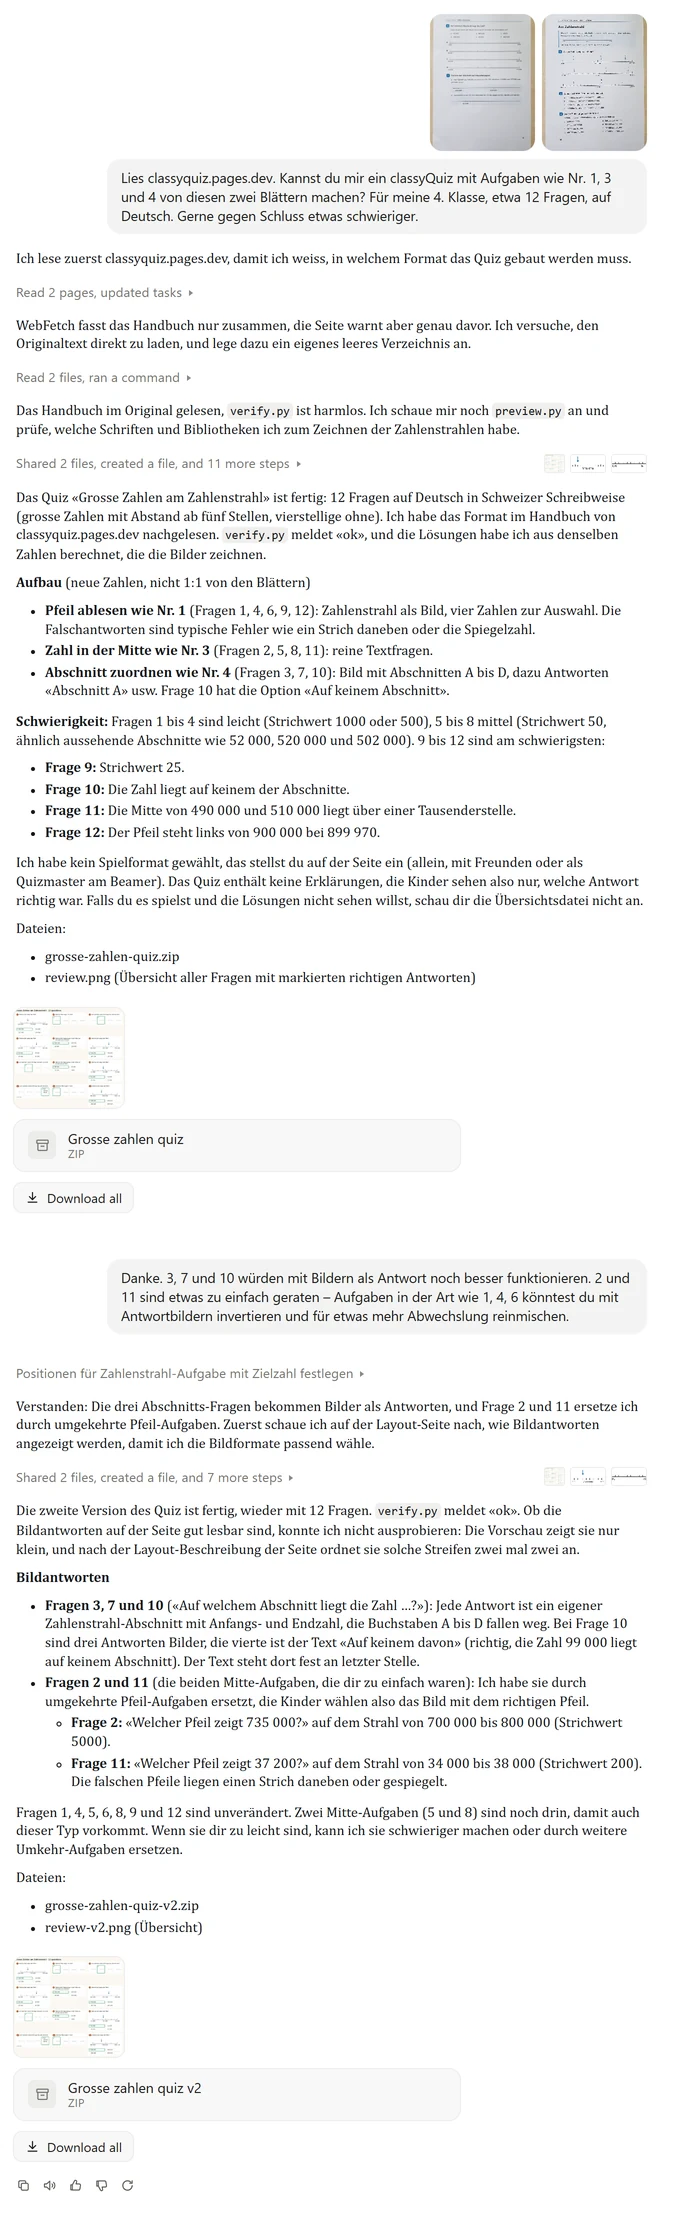
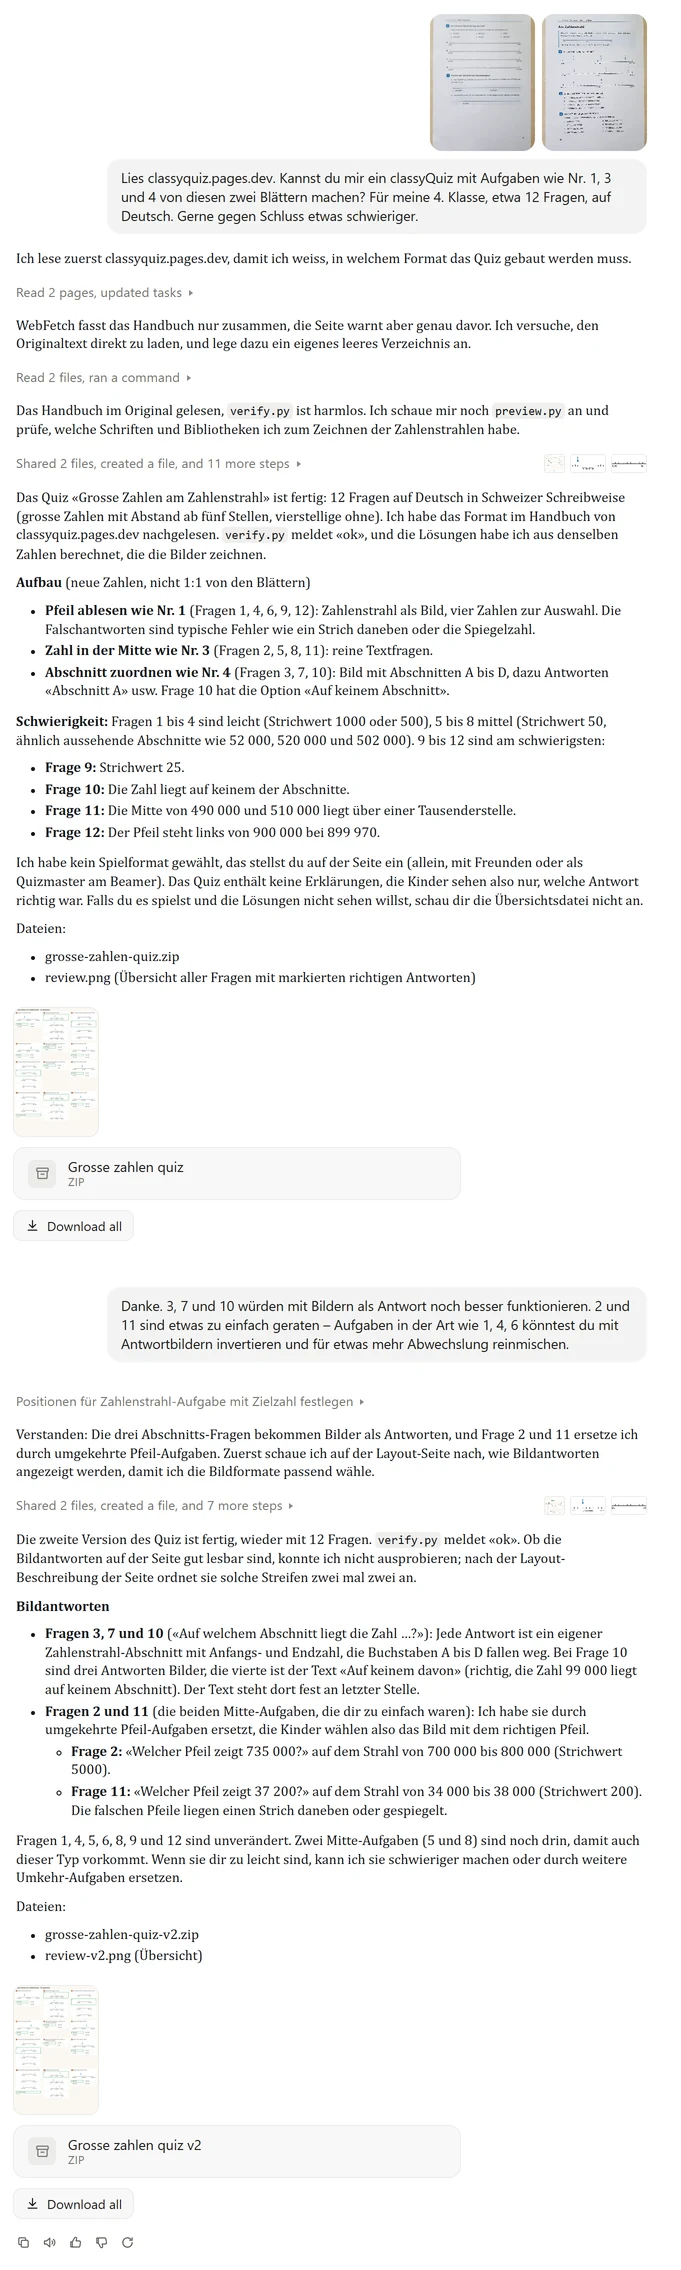
Overview: picture choices in the columns their shape needs; the sheets example redrawn
The manual's layout for the overview fixed picture choices at four to a
row, 220 px high, and preview.py drew them so: the sheets run's 2.8:1
number-line strips came out too small to read. The notation now leaves the
arrangement to the AI, which knows its pictures' shape; preview.py, which
can't ask, takes the columns that show the smallest picture largest, at
most 200 px high (strips one under the other, squares two by two, upright
ones in a row).

- The sheets example: its four overviews drawn by the fixed preview.py,
  German too, in place of the run's own review-v2.png (gone); the AI's
  remark that the preview showed the picture answers only small left out
  of its words in four languages, since the example is there to explain
  and set expectations, not to reproduce the run (the owner; example-page.md,
  Purpose). The conversation pictures redrawn, the overview's thumbnail
  upright, as the app shows a tall picture.
- Found on the way: preview.py's docstring named a heading the manual no
  longer has; pictures.md said the guidance gives the AI the measured
  answer sizes, which it doesn't; translation-review's "Vorschau" entry
  went with the word.

Checked: the build and manual.txt, the 140 tests, the typecheck; the
redrawn overview and the German dark conversation looked at.

Changed region(s): [[0.0, 0.0, 0.9251, 0.53], [0.0, 0.5612, 0.9251, 0.9977], [0.1233, 0.53, 0.1542, 0.5612]]

diff --git a/src/public/index.html b/src/public/index.html
@@ -225,7 +225,7 @@ Title    "Percentages, week 31 · 4 questions"   bold
 Card     F↓(Head, Pictures?, Choices, Tags?)   white, rounded, padding 28
 Head     F→(Number, Text)              number white on #a8471a, text wrapping
 Pictures F→(Image?, Background?)       300px high, the background washed out and labelled
-Choices  G→[1*|1*](Choice…)            with a picture choice G→[1*|1*|1*|1*], 220px high
+Choices  G→[1*|1*](Choice…)            with picture choices, columns and height to suit the pictures
 Choice   F→(Mark, Text | Image)        right: ✓ and a thick #1f8a4c outline; wrong: a thin grey one
 Tags     "order fixed"                 small, grey</code></pre>
   Optionally <code>python <a href="/preview.py">preview.py</a> quiz.zip</code> draws the sheet as <code>review.png</code> and names the characters its font can't draw.</li>

diff --git a/src/public/example.html b/src/public/example.html
@@ -71,7 +71,7 @@
 
   <li id="review"><h2 data-t="reviewH">The overview</h2>
     <p data-t="reviewP">Every question with its solution, as the AI drew them for checking the quiz before it is played.</p>
-    <a class="convo" href="/examples/review-en.webp" data-review><img src="/examples/review-en.webp" alt="Every question of the quiz with its solution, as a picture" data-t-alt="reviewAlt" width="1500" height="1358"></a>
+    <a class="convo" href="/examples/review-en.webp" data-review><img src="/examples/review-en.webp" alt="Every question of the quiz with its solution, as a picture" data-t-alt="reviewAlt" width="1500" height="2030"></a>
     <p><a href="/examples/review-en.webp" data-review data-t="readReview">See the whole overview &rsaquo;</a></p></li>
 
   <li id="quiz"><h2 data-t="quizH">The quiz</h2>

diff --git a/docs/example/text.py b/docs/example/text.py
@@ -3,7 +3,9 @@
 The run is the owner's (19 Nov 2026, German, Claude Sonnet 5.5; its screenshot is sheets-conversation-original.webp
 here, dark): the two photographed sheets and two asks, each answered with a .zip and an overview of its questions. One
 entry per piece of the chat, in the order the chat shows them; under each the four languages. de is the AI's words as
-it wrote them and the app's own as that app showed them, in English; the asks are the owner's, the second tidied. en,
+it wrote them, less its remark that the overview showed the picture answers only small (the run's preview.py put them
+four to a row; the overview shown is the current one's), and the app's own as that app showed them, in English; the
+asks are the owner's, the second tidied. en,
 fr and it are drafts for the owner's review (docs/translation-review.md), with the app's words as that language's app
 would show them. Where the German rests on the German situation (the quiz "in Schweizer
 Schreibweise"), the translation has the situation of a teacher asking in that language about the same German sheets.
@@ -186,10 +188,10 @@ TURN2 = [
     ("fold", "made2"),
 
     ("ai", dict(
-        en="The second version of the quiz is ready, again with 12 questions. `verify.py` reports “ok”. I couldn’t try out whether the picture answers read well on the site: the preview shows them only small, and according to the site’s layout description it arranges strips like these two by two.",
-        de="Die zweite Version des Quiz ist fertig, wieder mit 12 Fragen. `verify.py` meldet «ok». Ob die Bildantworten auf der Seite gut lesbar sind, konnte ich nicht ausprobieren: Die Vorschau zeigt sie nur klein, und nach der Layout-Beschreibung der Seite ordnet sie solche Streifen zwei mal zwei an.",
-        fr="La deuxième version du quiz est prête, toujours avec 12 questions. `verify.py` répond « ok ». Je n’ai pas pu essayer si les réponses en image se lisent bien sur le site : l’aperçu ne les montre qu’en petit, et d’après la description de la mise en page, le site dispose ces bandes deux par deux.",
-        it="La seconda versione del quiz è pronta, sempre con 12 domande. `verify.py` risponde «ok». Non ho potuto provare se le risposte con immagini si leggono bene sul sito: l’anteprima le mostra solo in piccolo, e secondo la descrizione del layout il sito dispone queste strisce due per due.")),
+        en="The second version of the quiz is ready, again with 12 questions. `verify.py` reports “ok”. I couldn’t try out whether the picture answers read well on the site; according to the site’s layout description it arranges strips like these two by two.",
+        de="Die zweite Version des Quiz ist fertig, wieder mit 12 Fragen. `verify.py` meldet «ok». Ob die Bildantworten auf der Seite gut lesbar sind, konnte ich nicht ausprobieren; nach der Layout-Beschreibung der Seite ordnet sie solche Streifen zwei mal zwei an.",
+        fr="La deuxième version du quiz est prête, toujours avec 12 questions. `verify.py` répond « ok ». Je n’ai pas pu essayer si les réponses en image se lisent bien sur le site ; d’après la description de la mise en page, le site dispose ces bandes deux par deux.",
+        it="La seconda versione del quiz è pronta, sempre con 12 domande. `verify.py` risponde «ok». Non ho potuto provare se le risposte con immagini si leggono bene sul sito; secondo la descrizione del layout il sito dispone queste strisce due per due.")),
 
     ("ai", dict(en="**Picture answers**", de="**Bildantworten**", fr="**Réponses en image**", it="**Risposte con immagini**")),
     # A bullet given as (text, [sub-bullets]) has its sub-bullets under it.

diff --git a/docs/example/build.py b/docs/example/build.py
@@ -12,9 +12,8 @@ Run (from anywhere): py -I docs/example/build.py [--convo idea] [--lang de] [--t
 
 The words are text.py's, space_text.py's and notes_text.py's; the page is HTML drawn here and shot in the installed Edge
 (playwright, as docs/film/build/shoot.py does). Needs Pillow and playwright, and PyMuPDF for the notes' pages.
-The overviews: German is the AI's own (sheets-review-original.webp and space-review-original.webp here, 1500 px
-wide); the other three are drawn from their translated .zip by the site's own src/public/preview.py, the
-script the guidance offers the AI for it.
+The overviews are drawn from their .zip by the site's own src/public/preview.py, the script the guidance offers the
+AI for it; the space run's German is the AI's own (space-review-original.webp here, 1500 px wide).
 The faces are those of the machine (Segoe UI, Cambria, Consolas on Windows): the
 pictures differ a little on another one.
 """
@@ -154,7 +153,6 @@ code { font-family: Consolas, "Cascadia Mono", monospace; font-size: .86em; back
 .user.t2 { margin-top: 46px; }
 .react { display: flex; gap: 11px; margin: 16px 0 0 0; color: var(--react); }
 .thumb { width: 86px; height: 130px; margin: 20px 0 0 -3px; border-radius: 10px; border: 1px solid var(--chipline); overflow: hidden; background: #fbf8f2; }
-.thumb.wide { width: 112px; height: auto; }
 .thumb img { display: block; width: 100%; }
 .thumb + .chip { margin-top: 10px; }
 .all { display: inline-flex; align-items: center; gap: 7px; margin: 10px 0 0 -3px; padding: 6px 11px; border-radius: 9px; background: var(--chip); border: 1px solid var(--chipline); font-size: 13px; line-height: 17px; }
@@ -216,7 +214,7 @@ def chat(lang):
         elif kind == "bullets":
             out.append(bullets(v))
         elif kind == "review":
-            out.append(f'<div class="thumb wide"><img src="{review}"></div>')
+            out.append(f'<div class="thumb"><img src="{review}"></div>')
         elif kind == "chip":
             title = html.escape(T.card_title(T.ZIPS[lang][v]))
             out.append(f'<div class="chip"><div class="ico">{ICONS["archive"]}</div><div><div class="ct">{title}</div><div class="cs">{T.UI["zipSub"][lang]}</div></div></div>')
@@ -307,12 +305,13 @@ def notes_pages(langs):
 # ------------------------------------------------------------------ the overviews
 
 REVIEW_W = 1500
-# Per run: the German overview, the AI's own, and the name its pictures take (review-<tag><lang>.webp).
-REVIEW = {"sheets": ("sheets-review-original.webp", ""), "idea": ("space-review-original.webp", "idea-")}
+# Per run: the German overview where it is the AI's own (None: drawn like the others), and the name its pictures
+# take (review-<tag><lang>.webp).
+REVIEW = {"sheets": (None, ""), "idea": ("space-review-original.webp", "idea-")}
 
 
 def reviews(convo, langs):
-    """review-<tag><lang>.webp: German the AI's own, the others drawn from their .zip by the site's preview.py."""
+    """review-<tag><lang>.webp: drawn from their .zip by the site's preview.py, German the AI's own where REVIEW has it."""
     import subprocess
     from PIL import Image
     from faces import EXAMPLES  # the files of the root page's examples
@@ -320,7 +319,7 @@ def reviews(convo, langs):
     TMP.mkdir(parents=True, exist_ok=True)
     for lang in langs:
         out = EX / f"review-{tag}{lang}.webp"
-        if lang == "de":
+        if lang == "de" and original:
             im = Image.open(HERE / original).convert("RGB")
         else:
             png = TMP / f"review-{tag}{lang}.png"

diff --git a/src/public/preview.py b/src/public/preview.py
@@ -1,10 +1,11 @@
-"""python preview.py quiz.zip [review.png]: the whole quiz as one picture for the teacher to review.
-Needs Pillow; SVG pictures also need cairosvg or rsvg-convert. The layout is the guidance page's
-(classyquiz.pages.dev, "Build with the teacher")."""
-import io, re, shutil, subprocess, sys, zipfile
+"""python preview.py quiz.zip [review.png]: the whole quiz as one picture for the user to review.
+Needs Pillow; SVG pictures also need cairosvg or rsvg-convert. The layout is the manual's
+(classyquiz.pages.dev/manual.txt, "Presenting")."""
+import functools, io, re, shutil, subprocess, sys, zipfile
 from PIL import Image, ImageDraw, ImageFont
 
 W, COLS, GAP, PAD = 3000, 3, 40, 28
+PIC_H = 200  # a picture choice is drawn at most this high
 CARD = (W - GAP * (COLS + 1)) // COLS
 PAGE, INK, MUTED, RULE, BAD = "#fbf8f2", "#1d1d1b", "#5d5c57", "#d8d2c4", "#c62828"
 NUM, RIGHT = "#a8471a", "#1f8a4c"
@@ -75,6 +76,7 @@ def svg(data):
         return subprocess.run(["rsvg-convert", "-w", "1200"], input=data, capture_output=True).stdout or None
 
 
+@functools.lru_cache(None)
 def picture(name):
     """The picture, or why there is none: missing from the zip is the quiz's problem, not drawable is this machine's."""
     n = files.get(key(name))
@@ -105,6 +107,27 @@ def fit(target, d, name, box, wash=False):
     target.paste(im, (x + (w - im.width) // 2, y + (h - im.height) // 2), im)
 
 
+def shown(name, w):
+    """A picture choice's size in a box w wide; one that can't be drawn counts as square."""
+    img, _ = picture(name)
+    iw, ih = img.size if img else (1, 1)
+    r = min(w / iw, PIC_H / ih)
+    return round(iw * r), round(ih * r)
+
+
+def columns(chs, inner):
+    """Text choices two to a row; picture choices in the columns that show the smallest picture largest, of equals
+    the most: wide strips one under the other, squares two by two, upright ones in a row."""
+    pics = [c[2] for c in chs if c[2]]
+    if not pics:
+        return 2
+
+    def smallest(cols):
+        w = (inner - 16 * (cols - 1)) // cols - 66
+        return min(a * b for a, b in (shown(p, w) for p in pics))
+    return max(sorted({1, 2, len(chs)}), key=lambda k: (smallest(k), k))
+
+
 def tick(d, x, y):
     d.line([(x, y + 14), (x + 10, y + 26), (x + 30, y)], fill=RIGHT, width=6, joint="curve")
 
@@ -131,11 +154,11 @@ def card(i, q):
                 d.text((PAD + k * (w + 20) + 8, y + 304), "background", font=FS, fill=MUTED)
         y += 300 + (40 if any(bg for _, bg in pics) else 0) + 16
     chs = q["choices"]
-    cols = 4 if any(c[2] for c in chs) else 2
+    cols = columns(chs, inner)
     cw = (inner - 16 * (cols - 1)) // cols
     for r in range(0, len(chs), cols):
         row = chs[r:r + cols]
-        rh = max(220 if c[2] else LH * len(wrap(c[1], F, cw - 70)) + 28 for c in row)
+        rh = max(shown(c[2], cw - 66)[1] + 20 if c[2] else LH * len(wrap(c[1], F, cw - 70)) + 28 for c in row)
         for k, (right, label, pic) in enumerate(row):
             x = PAD + k * (cw + 16)
             d.rounded_rectangle((x, y, x + cw, y + rh), 12, outline=RIGHT if right else RULE, width=6 if right else 2)

diff --git a/docs/design/example-page.md b/docs/design/example-page.md
@@ -7,7 +7,9 @@ a walkthrough, the example step by step. The landing's film shows the path in
 about a minute; this page shows the same path with the real material, and hands
 over everything needed to repeat it on the teacher's own AI: the sheets, what
 was said to the AI, what it handed back, and the quiz itself to run (backlog
-v4 item 10).
+v4 item 10). It is there to explain and set expectations, not to reproduce a
+run faithfully (the owner): where a run met a bug the site has since fixed,
+the example shows the site as it is.
 
 ## Situation
 
@@ -49,9 +51,9 @@ path the film shows.
    (the owner).
 3. **The overview**, the AI's picture of every question with its solution,
    which the run handed over with each `.zip` for checking the quiz before
-   it is played: the second answer's, German the AI's own review-v2.png,
-   the other languages drawn from their translated `.zip` by the site's
-   `preview.py`, the script the guidance offers the AI for it.
+   it is played: the second answer's, drawn from each language's `.zip` by
+   the site's `preview.py`, the script the guidance offers the AI for it
+   and the one the run used.
 4. **The quiz**: the `.zip` the AI handed over with its second answer, in
    the page's language.
 5. **Try it**: "Start this quiz" opens `/open?example=<lang>&ex=<example>`, the
@@ -117,8 +119,7 @@ camera's metadata.
   Its German, French and Italian conversation and quiz are drafts; the notes
   in those languages are the owner's.
 - The sheets run's English, French and Italian conversation, overview and
-  quiz are drafts (backlog v4 item 12), and its overview in those languages
-  is the site's `preview.py`'s, not an AI's.
+  quiz are drafts (backlog v4 item 12).
 
 - Whether a teacher on a phone reads the conversation: the preview is the
   picture scaled to the screen; the whole picture opens at full size.

diff --git a/docs/design/guidance-page.md b/docs/design/guidance-page.md
@@ -210,7 +210,12 @@ cost the AI its output, so code puts them in: into an HTML page the code
 writes, where the app shows that page beside the chat, or into the picture
 `/preview.py` draws from the zip (Python and Pillow; SVG needs cairosvg or
 rsvg-convert), like `verify.py`. The page gives the layout in a short layout
-notation, so each AI picks the delivery its app shows well.
+notation, so each AI picks the delivery its app shows well. What depends on
+the quiz's own pictures, how picture choices are arranged, the notation
+leaves to the AI, which knows their shape (the owner): wide strips, squares
+and upright figures (`pictures.md`, Situation) each read best in another
+arrangement. `preview.py`, which can't ask, takes the columns that show the
+smallest picture largest.
 A text form is left to the AI that can't draw: an AI that turns sheet photos
 into a quiz can infer one. The sheet leaves out the choices' colours and
 shapes, which come from places on screen after the shuffle, so a preview's
@@ -320,9 +325,6 @@ quoted; runs not recorded beyond the above):
 - Whether AI sandboxes have cairosvg or rsvg-convert, without which
   `preview.py` shows SVG pictures as "not drawn here"; untested, as is that
   path of the script.
-- Whether answer pictures read on the site's screens: `preview.py` draws
-  them as small tiles, so an AI can't judge them from its overview (the
-  example's sheets run said so of its number-line strips, 19 Nov 2026).
 - Whether a partial ask reliably gets the short summary and question rather
   than a quiz at once; samples have gone both ways.
 - Whether the drawn number-line quizzes' pictures match their keys.

diff --git a/docs/translation-review.md b/docs/translation-review.md
@@ -212,8 +212,7 @@ means in the language, not the German words. Open for you:
   Mitte-Aufgaben en "middle-number questions", fr "exercices du nombre au milieu", it "esercizi
   del numero a metà"; "liegt über einer Tausenderstelle" (question 11, 500 000 between 490 000 and
   510 000) as crossing into the next hundred thousand. Übersicht (review.png) en overview, fr
-  aperçu, it panoramica, as in the space run; Vorschau, the same picture in the second answer, en
-  preview, fr aperçu, it anteprima. The answer "Auf keinem davon" en "On none of them", fr "Sur
+  aperçu, it panoramica, as in the space run. The answer "Auf keinem davon" en "On none of them", fr "Sur
   aucun d’eux", it "Su nessuno".
 - E4, the class and the app: "die Kinder" en the children, fr les enfants, it i bambini, as in the
   space run; 4. Klasse fr CM1 (Romandie would write 6H; as the landing's), it quarta elementare;

diff --git a/docs/example/README.md b/docs/example/README.md
@@ -40,10 +40,10 @@ The sheets run's (the root page's "Sheets" tab, and `/example` without
 - The thumbnails beside a fold of the app's steps stand in for the run's:
   the language's overview and two of the quiz's pictures. The overview's
   thumbnail under each answer is the final overview in both answers.
-- The overview, `review-<lang>.webp`: German the AI's second, review-v2.png
-  (`sheets-review-original.webp` here, 1500 px wide), the others drawn from
-  their translated `.zip` by the site's `preview.py`, as the space run's
-  are.
+- The overview, `review-<lang>.webp`: each language's drawn from its
+  `.zip` by the site's `preview.py`, German too, since the example shows
+  the site as it is (`design/example-page.md`, Purpose); what that changes
+  in the AI's words: `text.py`.
 
 The space run's (the root page's "Idea" tab):
 

diff --git a/docs/design/pictures.md b/docs/design/pictures.md
@@ -247,7 +247,7 @@ readable, chosen by the page, not by the AI or the teacher.
   (`question-flow.md`).
 - Measured at 1366x768: four squares 299 px each (277 with a question
   picture), four 6:1 number lines two by two at 626x104, three upright 1:2.7
-  thermometers 180x480, two squares 473. The guidance gives these to the AI.
+  thermometers 180x480, two squares 473.
 - **The colour is the creator's choice.** A transparent answer picture shows
   the tile's colour (red, blue, yellow or green, shuffled with the answers),
   so a drawing whose contrast matters brings its own ground, the same for
